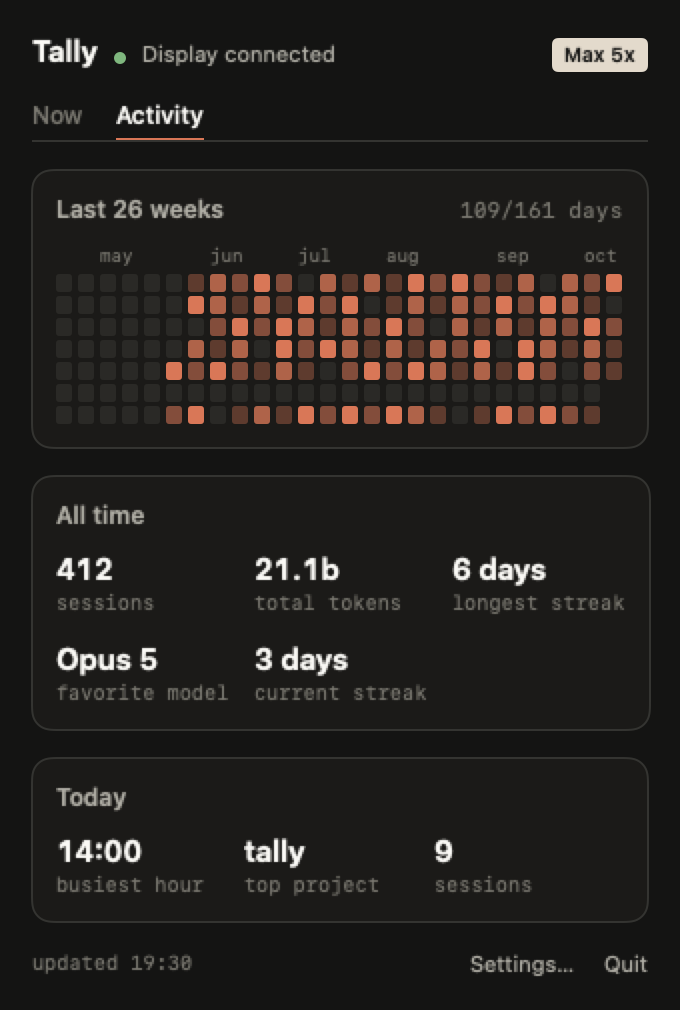
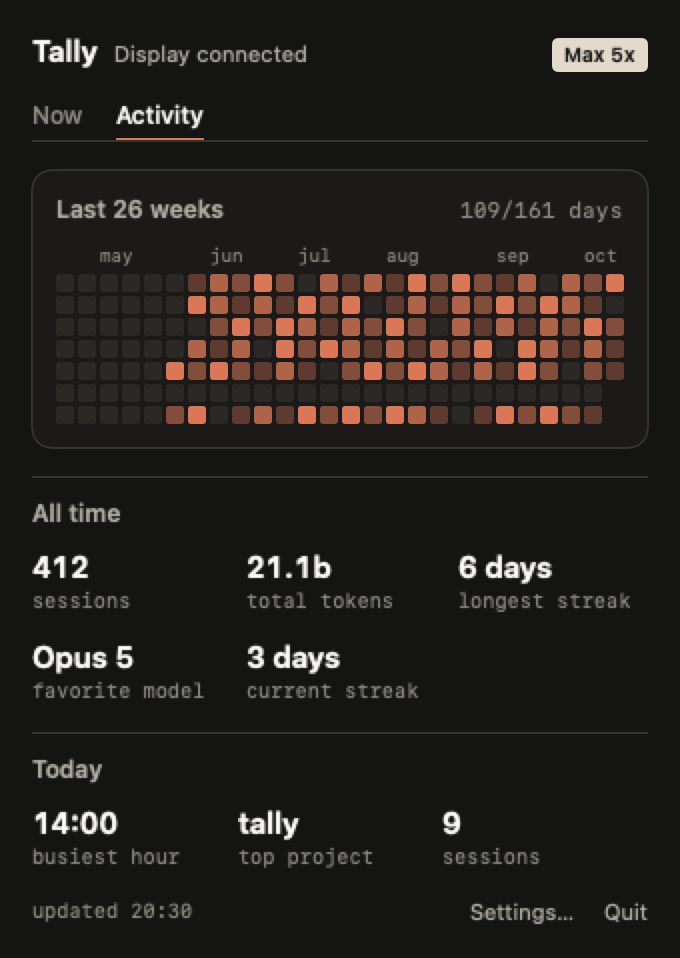
style(mac): fewer boxes and readable faint text in the panel
Only the usage meters keep a panel; Sessions, Today and the Activity lists sit under hairlines. The faint text color moves to #8E8C84 (5.2:1 on the panel, AA for small text), the green status dot gives way to terracotta text when the display isn't connected, the session spinner holds still under Reduce Motion, and the meters show their shape while the first reading loads. The README screenshots show the new panel.

diff --git a/mac/Sources/Tally/PopoverView.swift b/mac/Sources/Tally/PopoverView.swift
@@ -38,9 +38,8 @@ struct PopoverView: View {
     private var header: some View {
         HStack(alignment: .firstTextBaseline, spacing: 8) {
             Text("Tally").font(.system(size: 15, weight: .semibold))
-            Circle().fill(connected ? Theme.good : Theme.faint).frame(width: 6, height: 6)
-                .alignmentGuide(.firstTextBaseline) { $0[.bottom] - 1 }
-            Text(connected ? "Display connected" : linkStatus).font(.system(size: 11)).foregroundStyle(Theme.dim)
+            Text(connected ? "Display connected" : linkStatus).font(.system(size: 11))
+                .foregroundStyle(connected ? Theme.dim : Theme.accent)
             Spacer()
             if let plan = dashboard.usage?.plan {
                 Text(plan)
@@ -111,6 +110,27 @@ struct Panel<Content: View>: View {
     }
 }
 
+/// A titled block with no box, set off from the one above by a hairline.
+/// Only the usage meters get a panel; everything else reads as a list.
+struct Block<Content: View>: View {
+    var title: String
+    var detail: String?
+    @ViewBuilder var content: Content
+
+    var body: some View {
+        VStack(alignment: .leading, spacing: 10) {
+            Rectangle().fill(Theme.line).frame(height: 1)
+            HStack(alignment: .firstTextBaseline) {
+                Text(title).font(.system(size: 12, weight: .semibold)).foregroundStyle(Theme.dim)
+                Spacer()
+                if let detail { Text(detail).font(Theme.mono).foregroundStyle(Theme.faint) }
+            }
+            content
+        }
+        .frame(maxWidth: .infinity, alignment: .leading)
+    }
+}
+
 // MARK: Usage
 
 private struct UsagePanel: View {
@@ -128,8 +148,13 @@ private struct UsagePanel: View {
                     UsageBar(label: "Weekly", pct: usage.weekly, note: "resets in \(duration(usage.weeklyReset))")
                 }
             }
+        } else if noToken {
+            Panel { Empty(text: "No Claude Code login found. Run claude to sign in.") }
         } else {
-            Panel { Empty(text: noToken ? "No Claude Code login found." : "Waiting for the first reading.") }
+            HStack(spacing: 10) {
+                UsageBar(label: "5-hour", pct: nil, note: "waiting for a reading")
+                UsageBar(label: "Weekly", pct: nil, note: "waiting for a reading")
+            }
         }
     }
 }
@@ -137,21 +162,27 @@ private struct UsagePanel: View {
 /// The display's usage panel: the percentage, a bar and when it resets.
 private struct UsageBar: View {
     let label: String
-    let pct: Int
+    let pct: Int?   // nil draws the panel's shape while the first reading loads
     let note: String
 
     var body: some View {
         Panel {
             HStack(alignment: .firstTextBaseline, spacing: 1) {
-                Text("\(pct)").font(.system(size: 30, weight: .semibold)).monospacedDigit()
-                Text("%").font(.system(size: 15, weight: .medium)).foregroundStyle(Theme.dim)
+                if let pct {
+                    Text("\(pct)").font(.system(size: 30, weight: .semibold)).monospacedDigit()
+                    Text("%").font(.system(size: 15, weight: .medium)).foregroundStyle(Theme.dim)
+                } else {
+                    RoundedRectangle(cornerRadius: 3).fill(Theme.track).frame(width: 52, height: 26)
+                        .padding(.vertical, 5)
+                }
                 Spacer()
                 Text(label).font(.system(size: 11, weight: .medium)).foregroundStyle(Theme.dim)
             }
             GeometryReader { geo in
                 ZStack(alignment: .leading) {
                     Capsule().fill(Theme.track)
-                    Capsule().fill(Theme.bar(pct)).frame(width: geo.size.width * CGFloat(min(max(pct, 0), 100)) / 100)
+                    Capsule().fill(Theme.bar(pct ?? 0))
+                        .frame(width: geo.size.width * CGFloat(min(max(pct ?? 0, 0), 100)) / 100)
                 }
             }
             .frame(height: 5)
@@ -175,7 +206,7 @@ private struct SessionsPanel: View {
     }
 
     var body: some View {
-        Panel(title: "Sessions", detail: detail) {
+        Block(title: "Sessions", detail: detail) {
             if sessions.isEmpty {
                 Empty(text: "No open Claude Code sessions.")
             } else {
@@ -199,10 +230,12 @@ private struct SessionsPanel: View {
 private struct SessionMark: View {
     let state: String
     static let frames = ["·", "✢", "✳", "✶", "✻", "✽"]
+    @Environment(\.accessibilityReduceMotion) private var reduceMotion
 
     var body: some View {
         TimelineView(.periodic(from: .now, by: 0.12)) { context in
-            let step = Int(context.date.timeIntervalSinceReferenceDate / 0.12)
+            // With Reduce Motion on, the marks hold still on their middle frame.
+            let step = reduceMotion ? 3 : Int(context.date.timeIntervalSinceReferenceDate / 0.12)
             switch state {
             case "w":
                 let phase = step % 10   // up the frames and back down
@@ -251,7 +284,7 @@ private struct TodayPanel: View {
     let today: Today.Summary?
 
     var body: some View {
-        Panel(title: "Today", detail: today.map { "\(Stats.grouped($0.prompts)) prompts" }) {
+        Block(title: "Today", detail: today.map { "\(Stats.grouped($0.prompts)) prompts" }) {
             if let today {
                 Chart {
                     ForEach(Array(today.perHour.enumerated()), id: \.offset) { hour, count in

diff --git a/mac/Sources/Tally/ActivityView.swift b/mac/Sources/Tally/ActivityView.swift
@@ -11,7 +11,7 @@ struct ActivityView: View {
             Panel(title: "Last 26 weeks", detail: stats.values.first { $0.0 == "Active days" }.map { "\($0.1) days" }) {
                 Heatmap(stats: stats)
             }
-            Panel(title: "All time") {
+            Block(title: "All time") {
                 let shown = stats.values.filter { $0.0 != "Active days" }
                 Grid(alignment: .leading, horizontalSpacing: 12, verticalSpacing: 12) {
                     ForEach(Array(stride(from: 0, to: shown.count, by: 3)), id: \.self) { i in
@@ -28,7 +28,7 @@ struct ActivityView: View {
         }
         if let today, let peak = today.perHour.indices.max(by: { today.perHour[$0] < today.perHour[$1] }),
            today.perHour[peak] > 0 {
-            Panel(title: "Today") {
+            Block(title: "Today") {
                 HStack(spacing: 0) {
                     Figure(value: String(format: "%02d:00", peak), label: "busiest hour")
                     Figure(value: today.topProject, label: "top project")

diff --git a/mac/Sources/Tally/Theme.swift b/mac/Sources/Tally/Theme.swift
@@ -1,7 +1,7 @@
 import SwiftUI
 
 /// The display's palette (firmware/src/theme.h), so the app and the desk look
-/// alike.
+/// alike. Corners: 10 for panels, 3 for chips, round for bars.
 enum Theme {
     static let background = Color(hex: 0x141413)
     static let panel = Color(hex: 0x1B1A18)
@@ -9,11 +9,10 @@ enum Theme {
     static let track = Color(hex: 0x2A2926)
     static let text = Color(hex: 0xFAF9F5)
     static let dim = Color(hex: 0xB0AEA5)
-    static let faint = Color(hex: 0x7A7870)
+    static let faint = Color(hex: 0x8E8C84)   // 5.2:1 on the panel, AA for small text
     static let accent = Color(hex: 0xD97757)
     static let alert = Color(hex: 0xC6613F)
     static let badge = Color(hex: 0xE3DACC)
-    static let good = Color(hex: 0x7FB77E)
 
     /// A usage bar's fill: terracotta, earthier near the limit, as on the display.
     static func bar(_ pct: Int) -> Color { pct >= 80 ? alert : accent }

diff --git a/mac/Sources/Tally/Main.swift b/mac/Sources/Tally/Main.swift
@@ -67,7 +67,10 @@ enum Main {
             if what.hasPrefix("settings-") {
                 render(SettingsView(tab: String(what.dropFirst("settings-".count))), to: args[i + 1])
             } else {
-                render(PopoverView(dashboard: .sample, linkStatus: "Connected", connected: true, onSettings: {},
+                let dashboard = Dashboard.sample
+                if what == "loading" { dashboard.usage = nil }   // the panel before the first reading
+                render(PopoverView(dashboard: dashboard, linkStatus: what == "loading" ? "Looking for the display" : "Connected",
+                                   connected: what != "loading", onSettings: {},
                                    tab: what == "activity" ? .activity : .now), to: args[i + 1])
             }
             return
